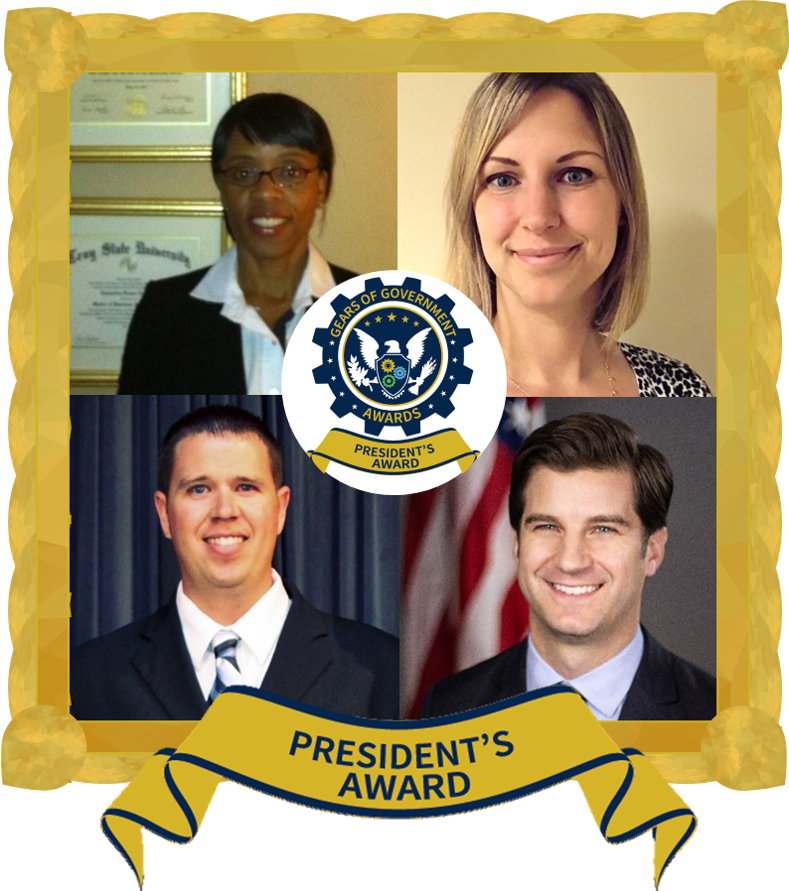
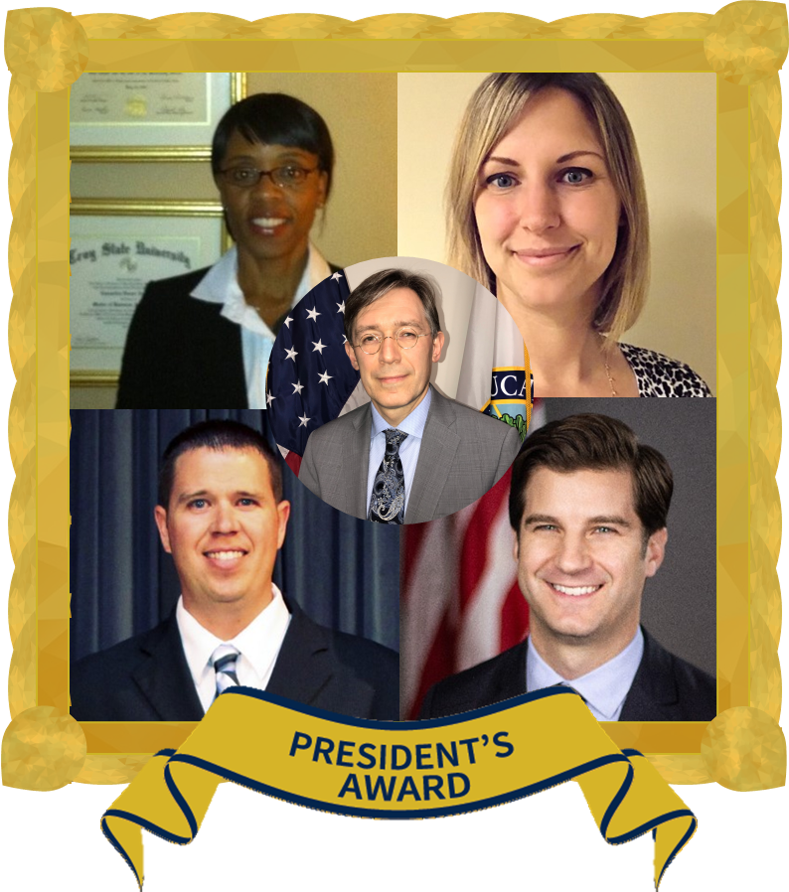
insert hhs headshot and new frame

Changed region(s): [[0.0913, 0.2727, 0.6996, 0.8182], [0.4259, 0.697, 0.5171, 0.7273], [0.1217, 0.697, 0.1825, 0.7273]]

diff --git a/_GoG-presidents-winners/hhs-oig.md b/_GoG-presidents-winners/hhs-oig.md
@@ -13,7 +13,7 @@ image-3: "/img/GoG/headshots/weit-j.jpg"
 image-3-name: Jess Weisz
 image-4: "/img/GoG/headshots/new-c.jpg"
 image-4-name: Cassandra Newsome
-image-5: "/img/GoG/GoG-presidents.png"
+image-5: "/img/GoG/headshots/kul-roman.jpg"
 image-5-name: Roman Kulbashny
 
 mission-photo-1: "/img/GoG/hhs-mission-1.jpg"
